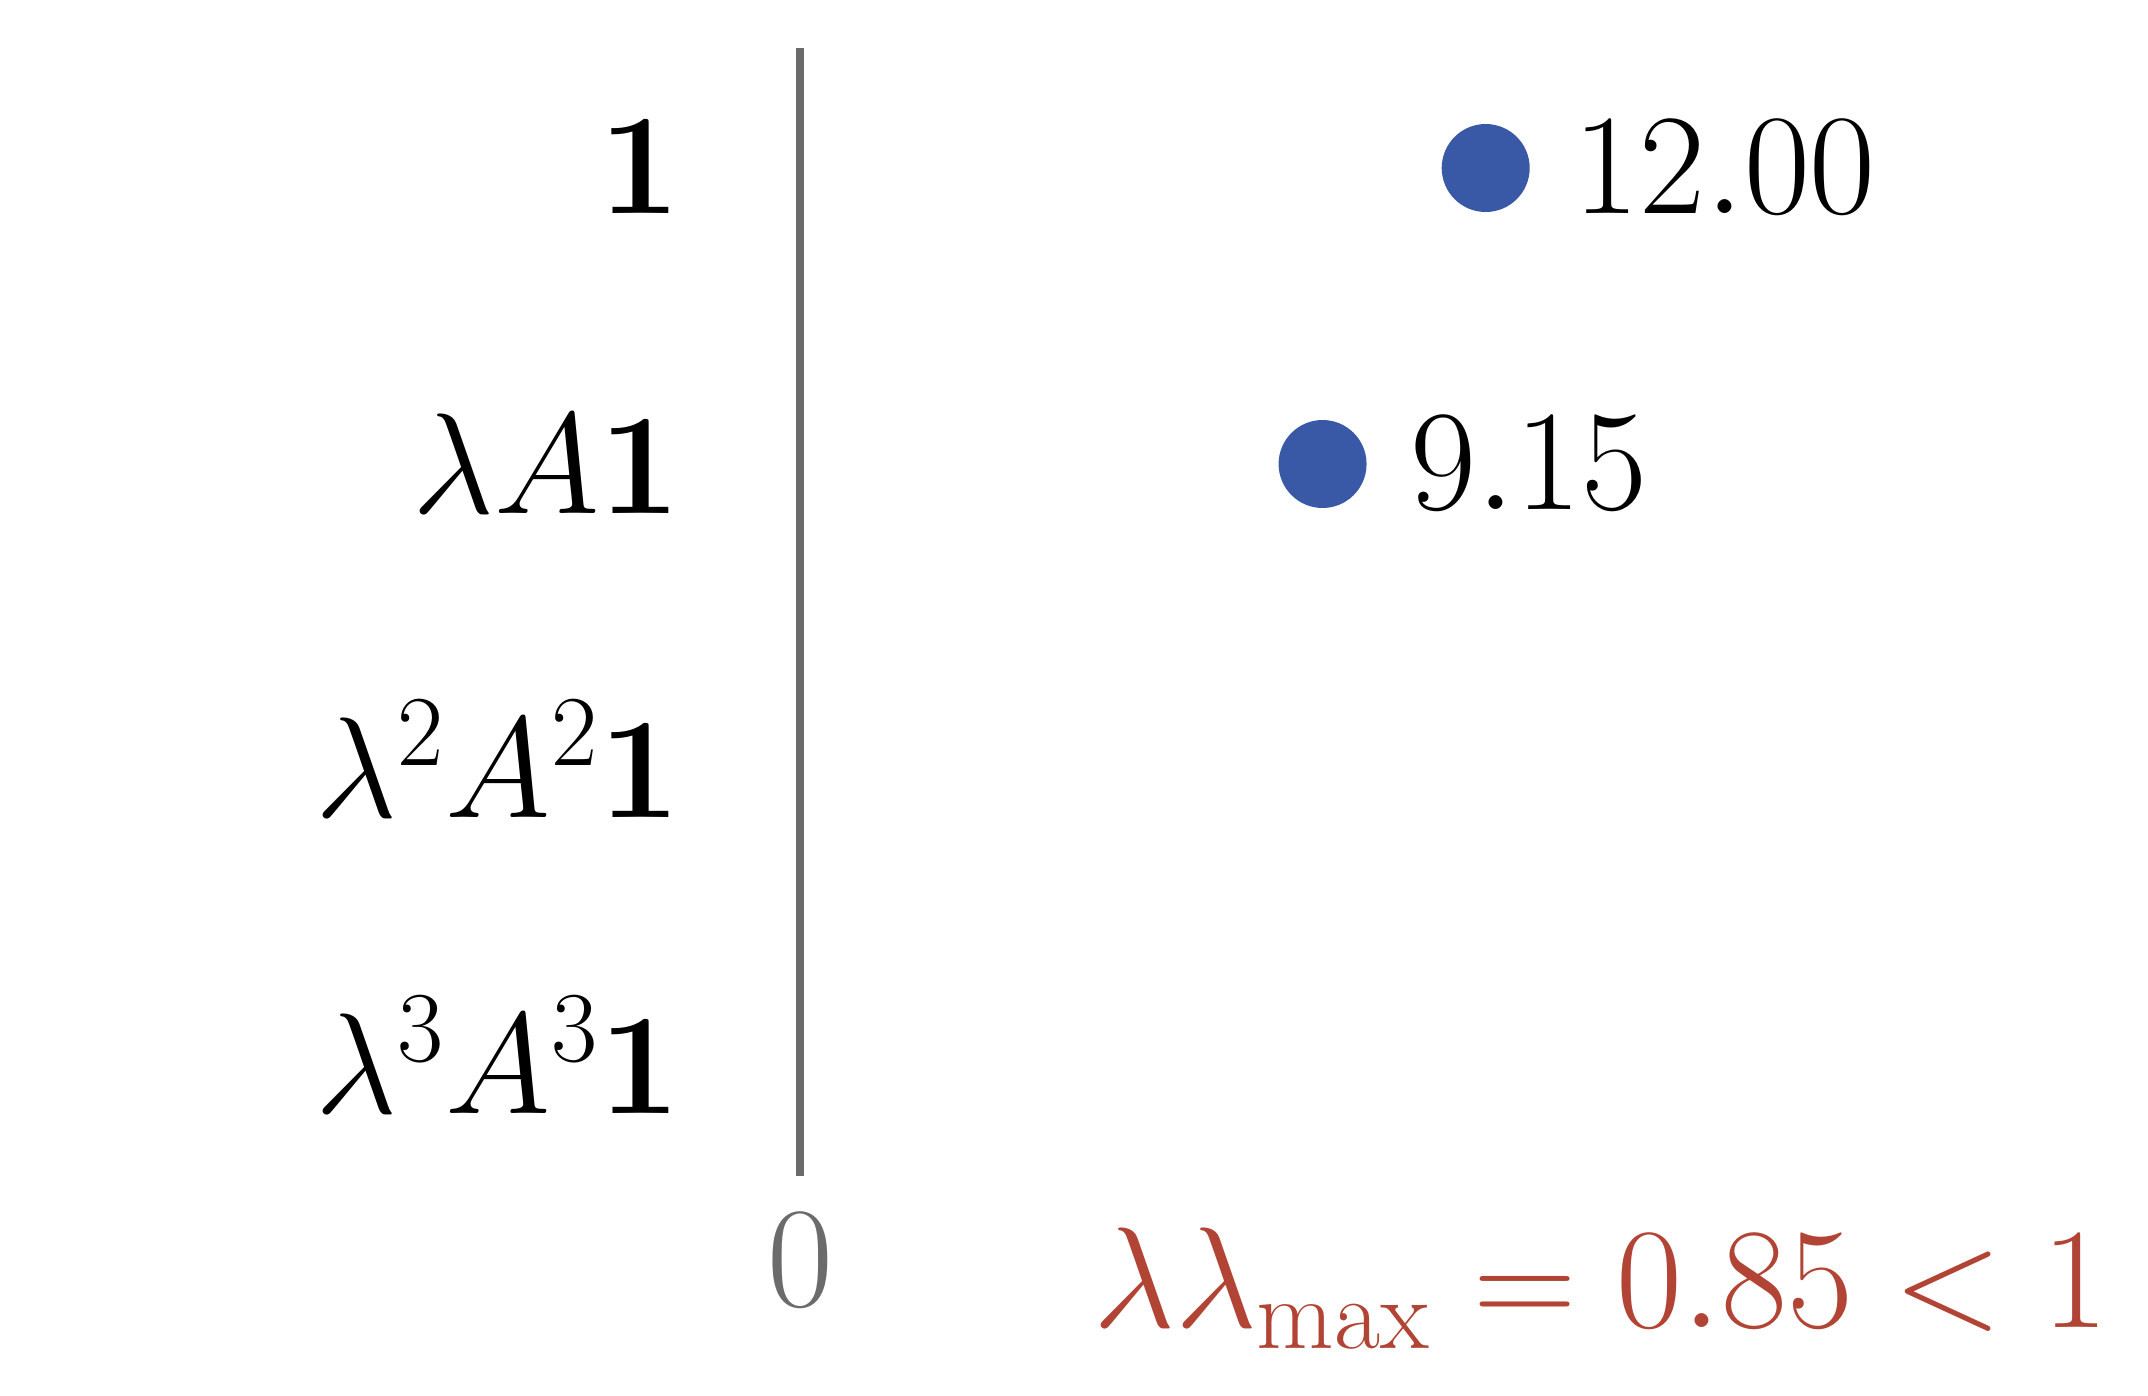
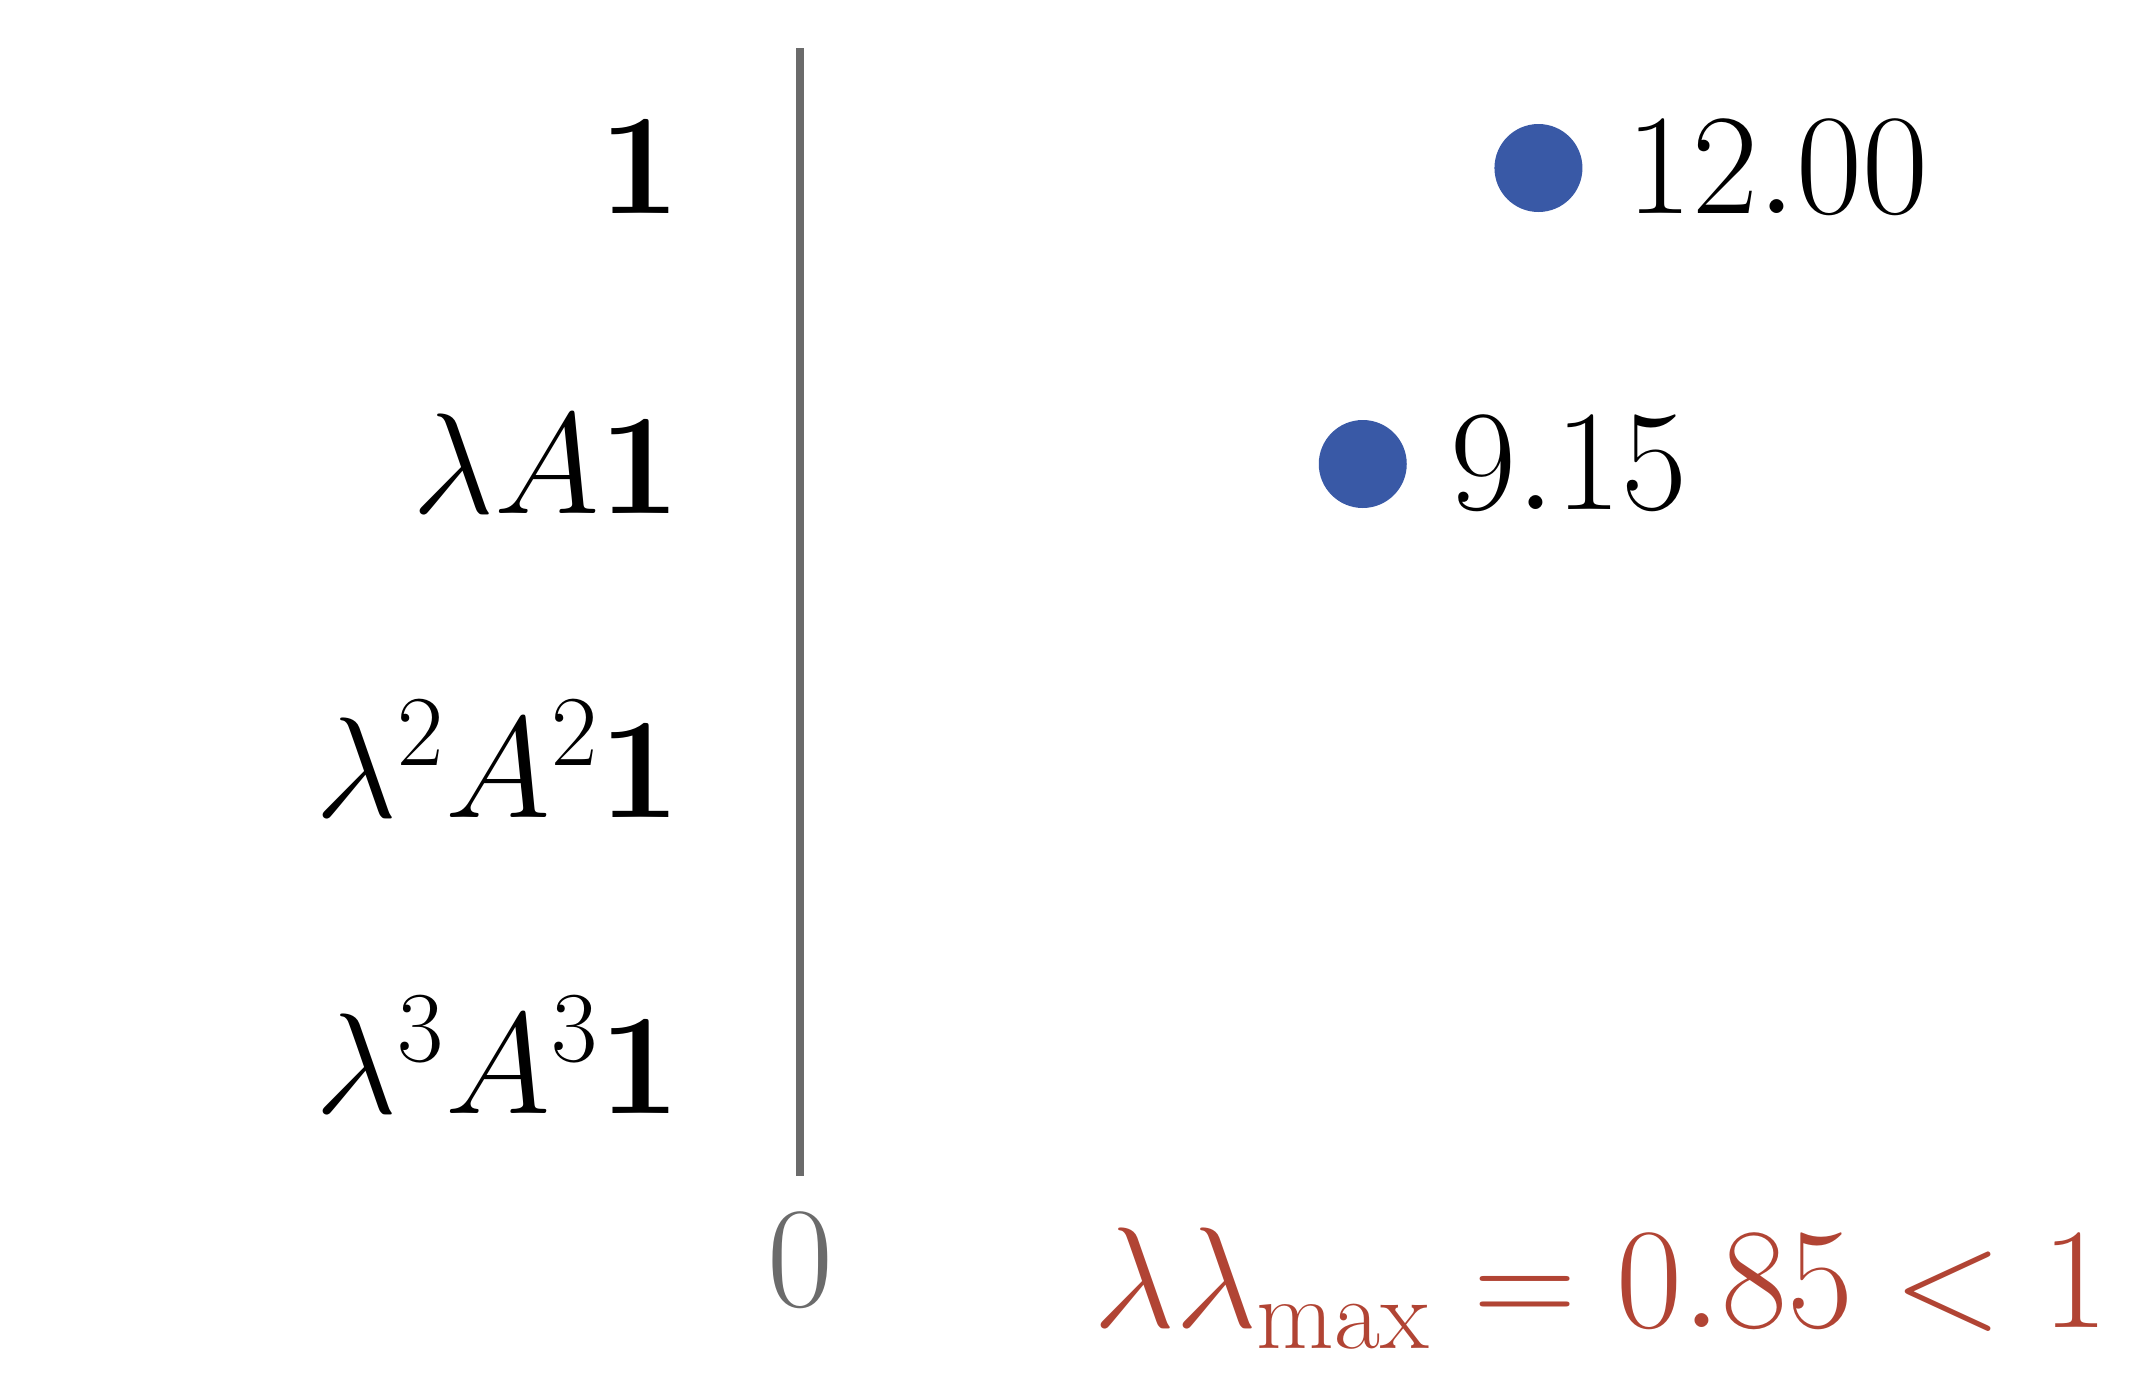
m06: took over the last six figures when the figure agents hit their limit
Three subagents were authoring figs_small/walk/web and all three stopped on a
session limit mid-conversion. What was left was six container mismatches, and the
deck side of each was a one-slide edit: the five definition slides put their
formula panel above a full-width figure instead of beside a column-width one, and
Part 1's payoff now uses the club NETWORK with the three answers marked on it
rather than a three-disc summary.

The marks are three FILLS, not three rings — the first version used an accent
ring on an accent disc for the third student, which is a mark nobody can see.

Zero container mismatches, zero missing figures.

Changed region(s): [[0.655, 0.0616, 0.9046, 0.154], [0.5926, 0.2772, 0.7798, 0.3696]]

diff --git a/docs/slide/new/m06/figures/figs_walk.py b/docs/slide/new/m06/figures/figs_walk.py
@@ -402,6 +402,9 @@ def fig_spectrum():
     notes = Notes()
     body += notes.put((X(w[-1]) - 14, 252), f"$\\lambda_{{\\max}} = {shown}$",
                       color="accenttwo", anchor="east")
+    # A leader, because the label has to sit left of its own dot to stay on the page
+    # and without one it reads as a caption for the pair of dots underneath it.
+    body += F.seg((X(w[-1]) - 20, 234), (X(w[-1]) - 2, 204), color="accenttwo", w=2.4)
     body += notes.put((30, 308), f"{len(w)} eigenvalues of $A$", color="annot",
                       anchor="west")
     body += notes.put((W / 2, 58), "only $\\lambda_{\\max}$ has an\\\\"
@@ -632,8 +635,11 @@ def fig_katz_floor():
     body += notes.put((W - 10, 285),
                       f"Katz  ${katz_txt}$\\\\eigenvector\\\\${eig_txt}$",
                       color="accenttwo", anchor="east")
-    body += notes.put((W - 10, 60), "darker $=$ higher", color="annot", anchor="east")
-    body += F.seg((484, 218), (484, 199), color="accenttwo", w=3.0)
+    body += notes.put((W - 10, 60), "darker $=$ higher Katz", color="annot",
+                      anchor="east")
+    # The leader runs from inside the note's own descender line down to the disc's
+    # rim: drawn shorter it read as a stray dash between two unrelated things.
+    body += F.seg((484, 224), (484, 197), color="accenttwo", w=2.4)
     F.emit("katz-floor", body, container="col", h=H)
 
 
@@ -645,15 +651,20 @@ def _katz_solve_body(final):
     annotations under it repeat those colours: at 537 bp there is no room for a leader
     from each term out to a note beside it, and an uncoloured note under a two-term
     equation names neither term.
+
+    The annotations are flush left and flush right -- the side each term sits on in
+    the equation above -- which is also what carries the ink across the column. A
+    centred stack of five lines spans 64% of 537 bp and the width gate wants 76%.
     """
     notes = Notes()
     body = notes.put((W / 2, 336),
                      "$c = {\\color{accenttwo}\\beta\\mathbf{1}}"
                      " + {\\color{accent}\\lambda A c}$", size=46,
                      meas="$c = \\beta\\mathbf{1} + \\lambda A c$")
-    body += notes.put((W / 2, 268), "$\\beta$: a floor for everyone",
-                      color="accenttwo")
-    body += notes.put((W / 2, 210), "$\\lambda A c$: your neighbours", color="accent")
+    body += notes.put((14, 268), "$\\beta$: a floor for everyone",
+                      color="accenttwo", anchor="west")
+    body += notes.put((W - 14, 210), "$\\lambda A c$: your neighbours",
+                      color="accent", anchor="east")
     body += notes.put((W / 2, 140), "$(I - \\lambda A)\\,c = \\beta\\mathbf{1}$",
                       size=46)
     if final:
@@ -681,7 +692,7 @@ SERIES_TERMS = 4
 SERIES_TICKS = ["$\\mathbf{1}$", "$\\lambda A\\mathbf{1}$",
                 "$\\lambda^2 A^2\\mathbf{1}$", "$\\lambda^3 A^3\\mathbf{1}$"]
 SERIES_ROWS = (320, 246, 172, 98)
-SERIES_X0, SERIES_X1, SERIES_MAX = 200.0, 400.0, 14.0
+SERIES_X0, SERIES_X1, SERIES_MAX = 200.0, 400.0, 13.0
 
 
 def series_totals():

diff --git a/docs/slide/new/m06/figures/figs_extra.py b/docs/slide/new/m06/figures/figs_extra.py
@@ -120,3 +120,63 @@ FIGURES = [
     ("harmonic-idea", fig_harmonic_idea),
     ("club-three-kings-small", fig_club_three_kings_small),
 ]
+
+
+# --------------------------------------------------------------------------- the
+# club network with all three answers marked. `figs_small` emitted a column-width
+# version of this that is really the small three-disc summary; the payoff slide of
+# Part 1 needs the network itself, so it is drawn here at full width.
+CLUB_XY = {
+    "Sarah": (70.0, 300.0), "Mike": (70.0, 110.0), "Emma": (185.0, 205.0),
+    "Alex": (325.0, 205.0), "Olivia": (325.0, 62.0), "James": (445.0, 110.0),
+    "Sophia": (470.0, 275.0), "Ethan": (620.0, 358.0), "Ava": (625.0, 320.0),
+    "Noah": (775.0, 265.0), "Lily": (900.0, 352.0), "Lucas": (940.0, 285.0),
+    "Henry": (890.0, 175.0),
+}
+CLUB_MARK = None
+
+
+def fig_club_three_answers():
+    """One network, three marks, three questions -- the whole of Part 1's payoff."""
+    import itertools
+    edges = [tuple(e) for e in CLUB.edges()]
+    assert set(CLUB_XY) == set(CLUB), sorted(set(CLUB_XY) ^ set(CLUB))
+    F.assert_planar_drawing(edges, CLUB_XY, "club network")
+
+    # Three marks, three colours, and the third one cannot be accent: a blue ring
+    # on a blue disc is invisible, which is how the first version of this figure
+    # shipped a mark nobody could see. Marked nodes change FILL instead, so all
+    # three read at a glance, and the slide's figcaption names each colour.
+    marks = [(CLUB_SPREAD[0], ACCENT2, "tell first"),
+             (CLUB_CLOSE[0], ACCENT3, "closest to everyone"),
+             (CLUB_BROKER[0], "black", "coordinates")]
+    assert len({m[0] for m in marks}) == 3
+
+    b = ""
+    for u, v in edges:
+        b += seg(CLUB_XY[u], CLUB_XY[v], color="black", w=F.EDGE_W)
+    marked = {m[0]: m[1] for m in marks}
+    for n, (x, y) in CLUB_XY.items():
+        fill = marked.get(n, "accent")
+        b += (f"\\draw[line width=1.6bp,draw=black,fill={fill}] ({x},{y}) "
+              f"circle ({F.NODE / 2}bp);\n")
+    # Same treatment as the Roman map: solve against discs and other labels only,
+    # restricted to the four nearest sides, and halo the text so an edge behind it
+    # stays readable. Solving against seventeen edges as well does not terminate
+    # here -- the backtracker explores the whole tree before reporting failure.
+    names = {n: n for n in CLUB_XY}
+    saved = F.SIDES[:]
+    F.SIDES[:] = saved[:4]
+    try:
+        sides, boxes = F.place_labels(names, CLUB_XY, [], bounds=(6, 6, 1074, 420),
+                                      gap=3.0)
+    finally:
+        F.SIDES[:] = saved
+    for dx, dy in [(a, c) for a in (-2, 0, 2) for c in (-2, 0, 2) if (a, c) != (0, 0)]:
+        shifted = {n: (x + dx, y + dy) for n, (x, y) in CLUB_XY.items()}
+        b += F.draw_labels(names, shifted, sides, color="white")
+    b += F.draw_labels(names, CLUB_XY, sides, color="black")
+    emit("club-three-answers", b, container="full", h=440, hmod="tall")
+
+
+FIGURES.append(("club-three-answers", fig_club_three_answers))

diff --git a/docs/slide/new/m06/m06-centrality.md b/docs/slide/new/m06/m06-centrality.md
@@ -213,8 +213,8 @@ Let them argue. Do not write any name on the board, and do not confirm either an
 
 <div class="fig tall">
 
-![w:1080](figures/club-three-kings.png)
-<figcaption>three questions about one network, and three different students</figcaption>
+![w:1080](figures/club-three-answers.png)
+<figcaption>red Noah: tell first · gold Sophia: closest to everyone · black Alex: coordinates</figcaption>
 
 </div>
 
@@ -240,26 +240,19 @@ The cheapest question you can ask
 
 <hr>
 
-<div class="cols">
-<div>
-
-Count the edges that end at a node.
-
 <div class="formula">
 
 $$c_i = \sum_j A_{ij}$$
 
 </div>
 
-That is **degree centrality**, and it is the whole definition.
+Count the edges that end at a node. That is **degree centrality**, and it is the whole definition.
 
-</div>
-<div class="fig">
+<div class="fig tall">
 
-![w:537](figures/degree-count.png)
+![w:1080](figures/degree-count.png)
 <figcaption>one tick per edge end</figcaption>
 
-</div>
 </div>
 
 ---
@@ -645,26 +638,19 @@ Let two or three students trace different routes out loud. Do not count anything
 
 <hr>
 
-<div class="cols">
-<div>
-
-Count how often a node lies **on the shortest path between two others**.
-
 <div class="formula">
 
 $$c_i = \sum_{j<k} \frac{\sigma_{jk}(i)}{\sigma_{jk}}$$
 
 </div>
 
-**Betweenness centrality** measures traffic you can broker — or block.
+**Betweenness centrality** counts how often a node lies on the shortest path between two others — traffic it can broker, or block.
 
-</div>
-<div class="fig">
+<div class="fig tall">
 
-![w:537](figures/betweenness-idea.png)
+![w:1080](figures/betweenness-idea.png)
 <figcaption>paths with no other way round</figcaption>
 
-</div>
 </div>
 
 ---
@@ -921,13 +907,26 @@ Let the objection stand for a moment. It is a good objection. The answer is that
 
 <hr>
 
-Twelve cities at once, and the recursion is $\lambda c = A c$.
+<div class="cols">
+<div>
 
-<div class="fig tall">
+Write that one line for all twelve cities at once and the sum becomes a matrix product.
 
-![w:1080](figures/eigen-equation.png)
-<figcaption>the matrix acting on the scores, and handing them back rescaled</figcaption>
+<div class="formula">
 
+$$\lambda\, c = A\, c$$
+
+</div>
+
+**Eigenvector centrality** is the vector that comes back unchanged, up to scale.
+
+</div>
+<div class="fig">
+
+![w:537](figures/eigen-equation.png)
+<figcaption>the matrix acting on the scores</figcaption>
+
+</div>
 </div>
 
 <!--
@@ -1407,26 +1406,19 @@ A good **hub** points at good authorities. A good **authority** is pointed at by
 
 <hr>
 
-<div class="cols">
-<div>
-
 <div class="formula">
 
 $$x = A y \qquad y = A^{\top} x$$
 
 </div>
 
-Substitute one into the other and each is an eigenvector problem: hubs of $A A^{\top}$, authorities of $A^{\top} A$.
+Substitute one into the other and each is an eigenvector problem — hubs of $A A^{\top}$, authorities of $A^{\top} A$. **HITS**, Kleinberg 1999.
 
-**HITS**, Kleinberg 1999.
+<div class="fig tall">
 
-</div>
-<div class="fig">
-
-![w:537](figures/hits-equations.png)
+![w:1080](figures/hits-equations.png)
 <figcaption>hub scores from authorities, authority scores from hubs</figcaption>
 
-</div>
 </div>
 
 ---
@@ -1540,26 +1532,19 @@ What is the first thing somebody does to you?
 
 <hr>
 
-<div class="cols">
-<div>
-
-A page has one vote to give, and it **splits it among its out-links**.
-
 <div class="formula">
 
 $$c_i = (1-\beta)\sum_j \frac{A_{ji}\,c_j}{d^{\text{out}}_j} + \frac{\beta}{N}$$
 
 </div>
 
-A link from a page that links to everything is worth almost nothing.
+A page has one vote and **splits it among its out-links**, so a link from a page that links to everything is worth almost nothing.
 
-</div>
-<div class="fig">
+<div class="fig tall">
 
-![w:537](figures/pagerank-split.png)
+![w:1080](figures/pagerank-split.png)
 <figcaption>one score, split four ways</figcaption>
 
-</div>
 </div>
 
 ---
@@ -1639,26 +1624,19 @@ Fish for "things near it". Then ask what "near" means in a directed network, and
 
 <hr>
 
-<div class="cols">
-<div>
-
-Send every jump back to **one** page instead of a random one, and the ranking bends toward it.
-
-Globally, Blog leads Course by 0.009. Personalized on Course, **Course leads by 0.125**.
-
 <div class="formula">
 
 $$c_i = \sum_k \beta(1-\beta)^k p_i^{(k)}$$
 
 </div>
 
-</div>
-<div class="fig">
+Send every jump back to **one** page and the ranking bends toward it: globally Blog leads Course by 0.009; personalized on Course, **Course leads by 0.125**.
 
-![w:537](figures/ppr.png)
+<div class="fig tall">
+
+![w:1080](figures/ppr.png)
 <figcaption>the same web, seen from one page</figcaption>
 
-</div>
 </div>
 
 <!--
